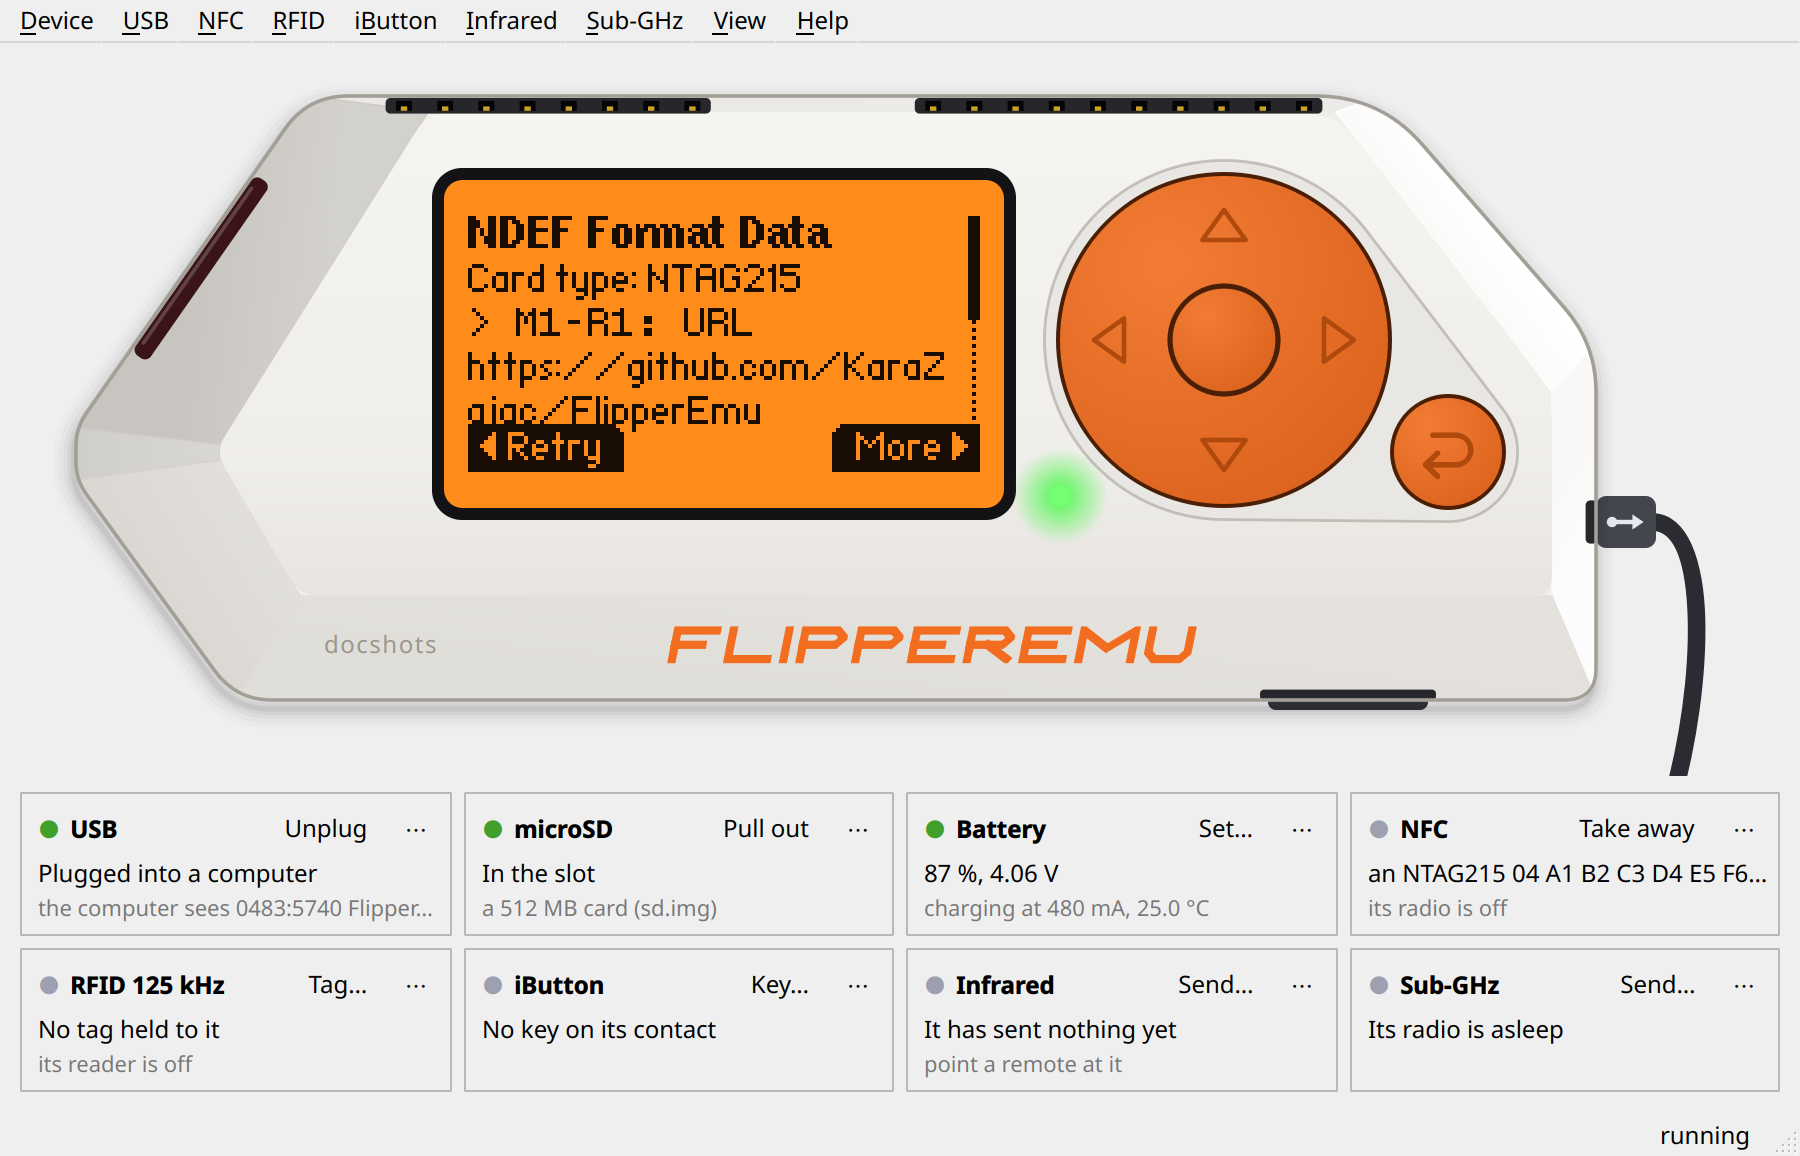
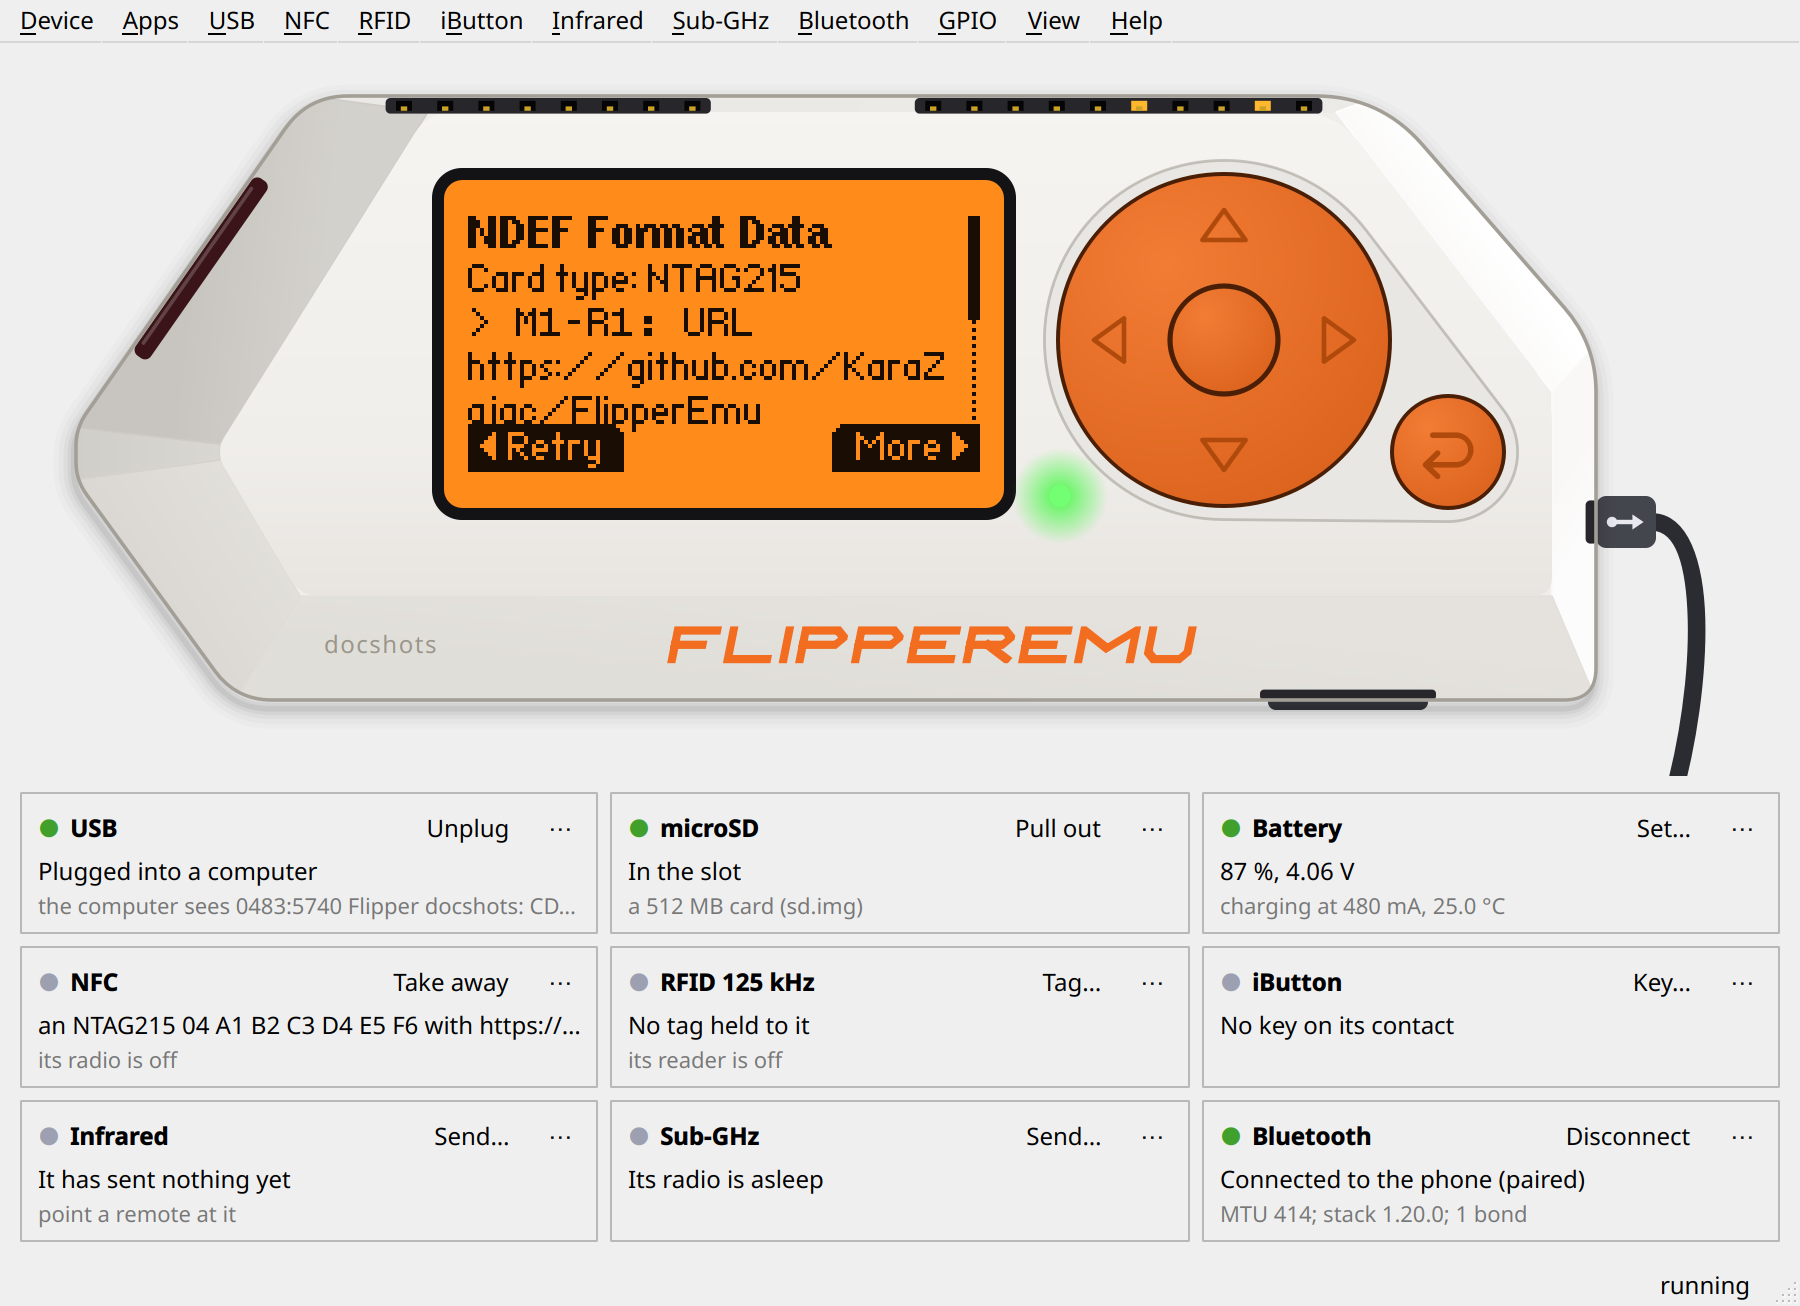
README: the window's picture with the bench of nine
The top picture had the bench of eight (four by two) and the menu bar
of before Apps, Bluetooth and GPIO. Taken again off-screen in the same
scene, the NFC app having read the NTAG215 that the bench holds, with
the window's phone connected over Bluetooth.

Claude-Session: https://claude.ai/code/session_01RVNzQPB4cKyuLh6sjrG7HY

diff --git a/README.md b/README.md
@@ -9,8 +9,9 @@ update `.tgz` you would flash.
 ![The window: a Flipper drawn around the emulated LCD, with a bench of virtual devices under it](docs/img/26-window-nfc-read.png)
 
 *The window. The NFC app has just read the NTAG215 that the bench holds to the emulated
-Flipper. Click its buttons, plug its USB cable in and out, pull its microSD card, hold
-cards, tags and keys to it, and switch it off and on: [The window](#the-window).*
+Flipper, and the window's phone is connected to it over Bluetooth. Click its buttons,
+plug its USB cable in and out, pull its microSD card, hold cards, tags and keys to it,
+pair a phone with it, and switch it off and on: [The window](#the-window).*
 
 | | |
 |:-:|:-:|
